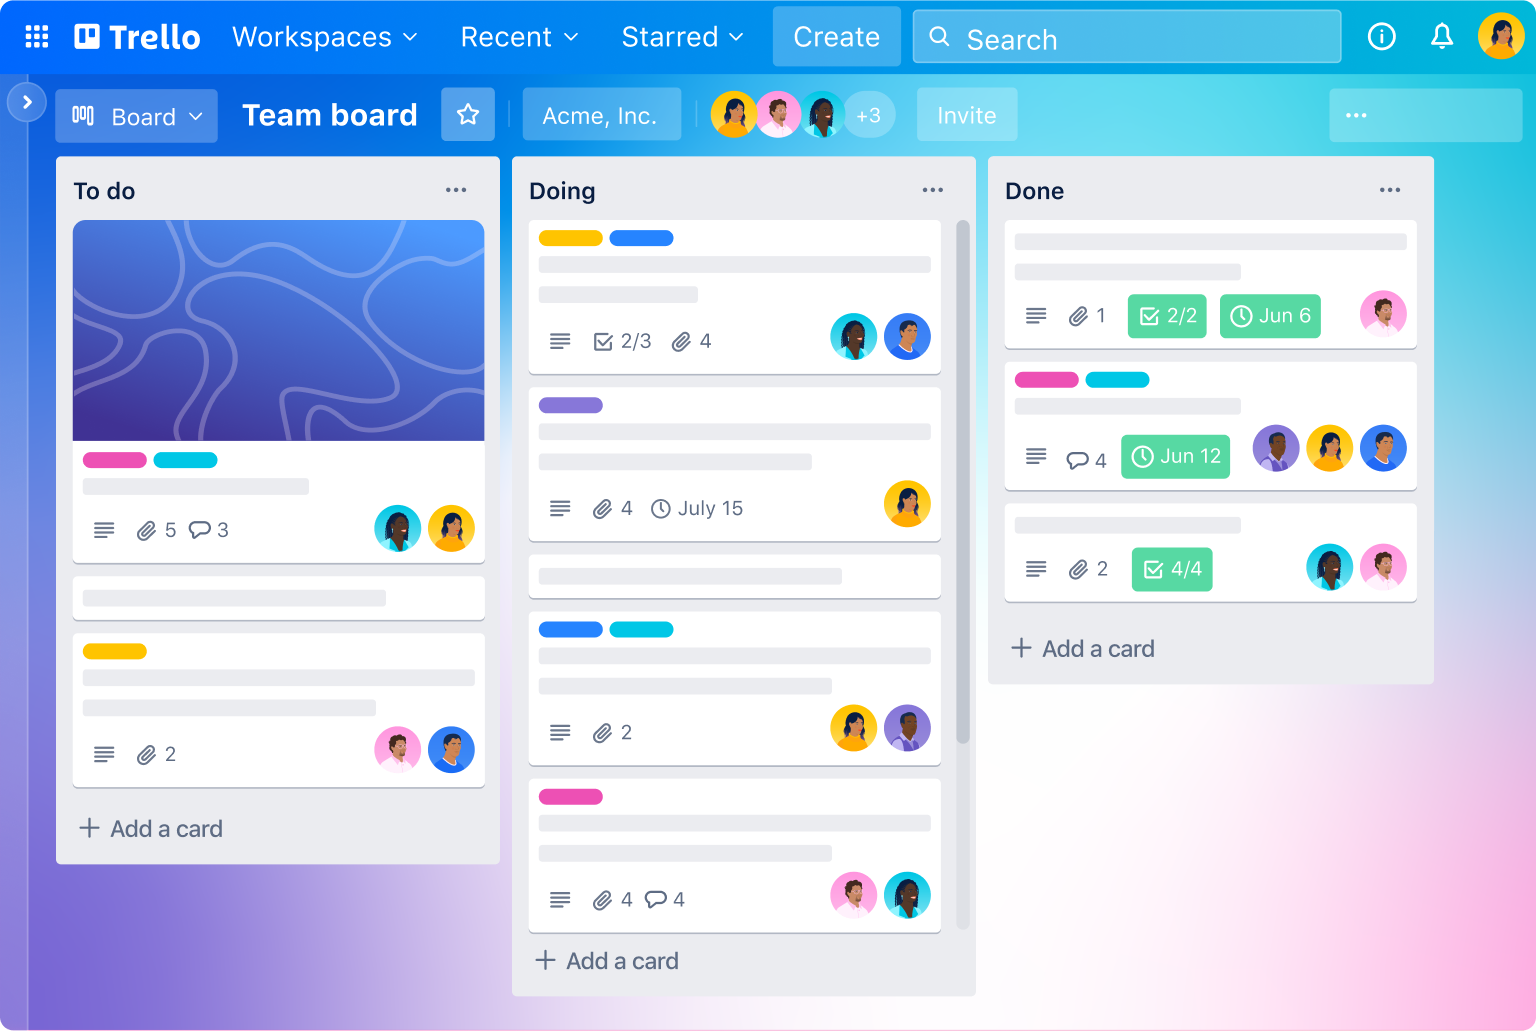
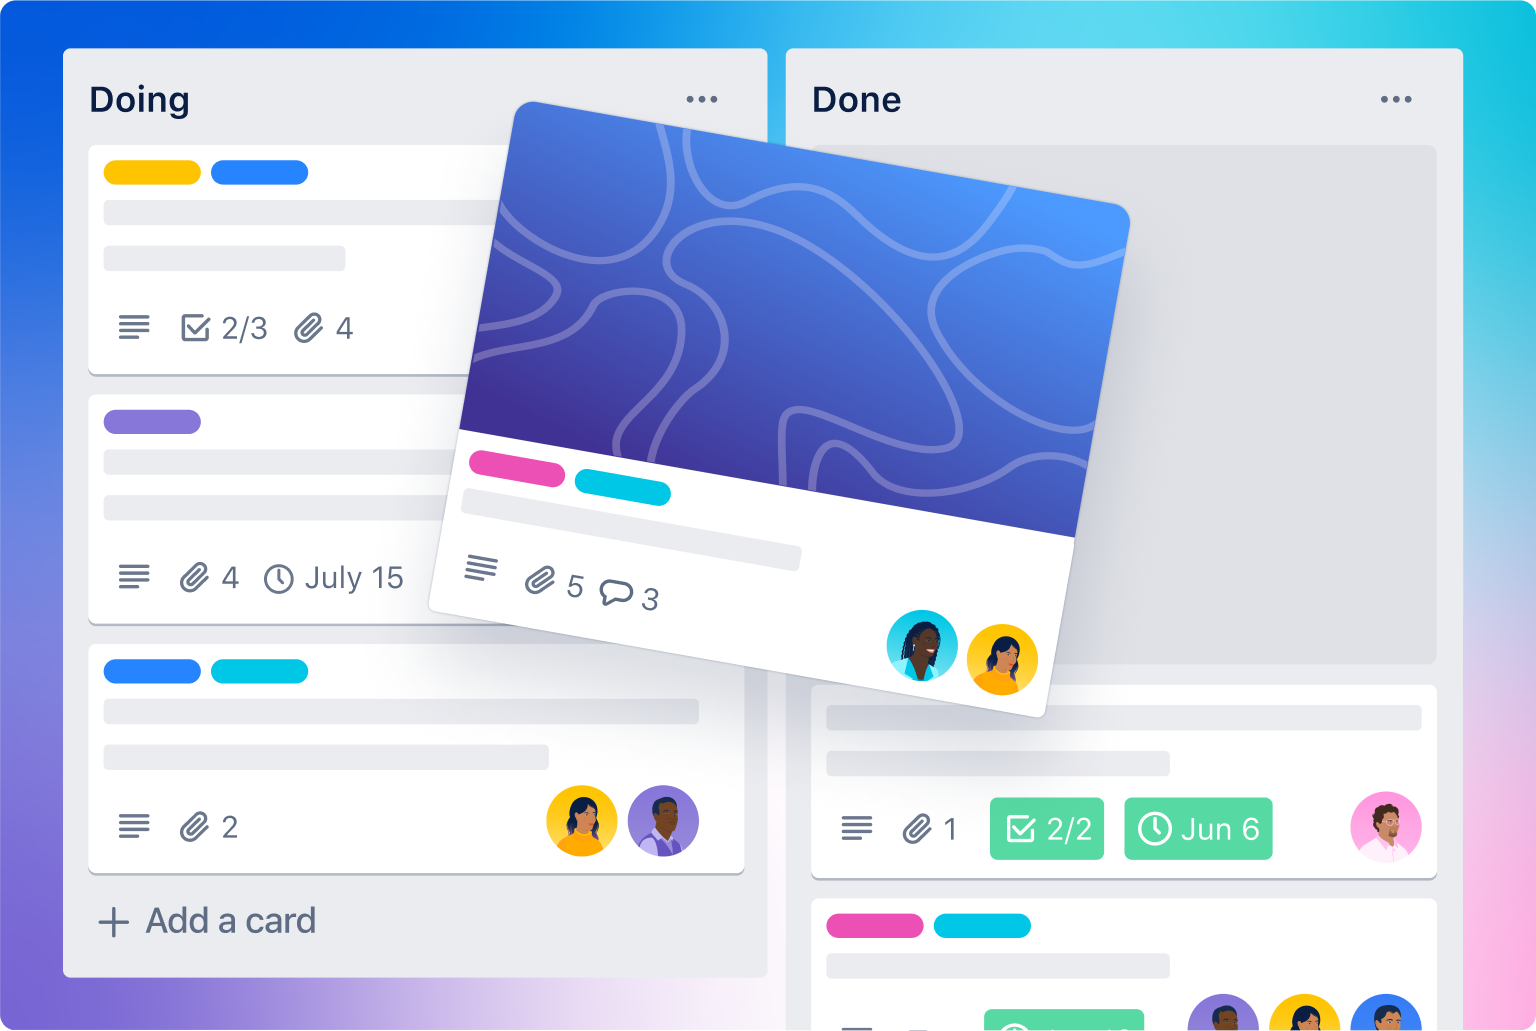
feat: add anims in funcs section

diff --git a/src/pages/WelcomePage/ui/Functionality.tsx b/src/pages/WelcomePage/ui/Functionality.tsx
@@ -1,23 +1,41 @@
 import { useState } from 'react';
 import { Tab } from '@headlessui/react';
 import clsx from 'clsx';
+import { motion, AnimatePresence } from 'framer-motion';
 
+import imgBoards from '../../../assets/main/features/boards.webp';
 import imgLists from '../../../assets/main/features/lists.webp';
+import imgCards from '../../../assets/main/features/cards.webp';
 
 const FEATURES = [
   {
     name: 'Boards',
     desc: 'Trello boards keep tasks organized and work moving forward. In a glance, see everything from “things to do” to “aww yeah, we did it!”',
+    img: imgBoards,
   },
   {
     name: 'Lists',
     desc: 'The different stages of a task. Start as simple as To Do, Doing or Done—or build a workflow custom fit to your team`s needs. There`s no wrong way to Trello.',
+    img: imgLists,
   },
   {
     name: 'Cards',
     desc: 'Cards represent tasks and ideas and hold all the information to get the job done. As you make progress, move cards across lists to show their status.',
+    img: imgCards,
   },
 ];
+
+const tabVariants = {
+  visible: {
+    opacity: 1,
+    transition: {
+      duration: 0.5,
+    },
+  },
+  hidden: {
+    opacity: 0,
+  },
+};
 
 const Functionality = () => {
   const [currentTab, setCurrentTab] = useState<number>(0);
@@ -35,7 +53,7 @@ const Functionality = () => {
                   className={({ selected }) =>
                     clsx(
                       'w-full rounded-lg py-2.5 text-md font-medium leading-5 text-blue-700',
-                      'ring-white ring-opacity-60 ring-offset-2 ring-offset-blue-400 focus:outline-none focus:ring-2',
+                      'ring-white ring-opacity-60 ring-offset-2 ring-offset-blue-400 focus:outline-none focus:ring-2 transition-all duration-300',
                       selected
                         ? 'bg-white shadow'
                         : 'text-blue-100 hover:bg-white/[0.12] hover:text-white'
@@ -56,24 +74,38 @@ const Functionality = () => {
                   )}
                 >
                   <ul>
-                    <li key={item.name} className="relative rounded-md p-3 hover:bg-gray-100">
+                    <motion.li
+                      key={item.name}
+                      className="relative rounded-md p-3"
+                      variants={tabVariants}
+                    >
                       <h3 className="text-xl font-bold leading-5">{item.name}</h3>
 
                       <div className="mt-1 flex text-lg font-normal leading-12 text-gray-500 min-h-[120px]">
                         {item.desc}
                       </div>
                       <div className="w-full max-w-100 block md:hidden -ml-100">
-                        <img src={imgLists} alt="imgLists" />
+                        <img src={item.img} alt="imgLists" />
                       </div>
-                    </li>
+                    </motion.li>
                   </ul>
                 </Tab.Panel>
               ))}
             </Tab.Panels>
           </Tab.Group>
         </div>
+
         <div className="w-full max-w-100 hidden md:block -ml-10 relative -z-10">
-          <img src={imgLists} alt="imgLists" />
+          {FEATURES.map((elem, idx) => (
+            <motion.img
+              key={elem.name}
+              src={elem.img}
+              alt={elem.name}
+              animate={currentTab === idx ? 'visible' : 'hidden'}
+              variants={tabVariants}
+              className={idx !== 0 ? 'absolute top-0 left-0' : ''}
+            />
+          ))}
         </div>
       </div>
     </section>
